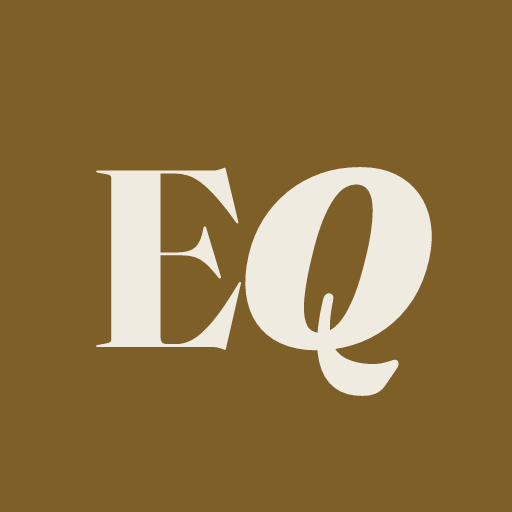
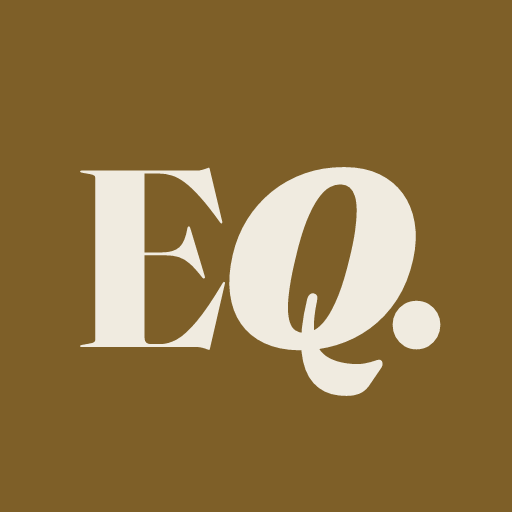
change photos

Changed region(s): [[0.2812, 0.3125, 0.875, 0.7812], [0.1562, 0.3125, 0.2188, 0.6875]]

diff --git a/scripts/gen-icon-palette.ts b/scripts/gen-icon-palette.ts
@@ -17,46 +17,46 @@ const root = path.join(__dirname, "..");
 const outDir = path.join(root, "public/icon-palette");
 fs.mkdirSync(outDir, { recursive: true });
 
-const frauncesData    = fs.readFileSync(path.join(root, "src/assets/fraunces-800.ttf"));
-const frauncesItalic  = fs.readFileSync(path.join(root, "src/assets/fraunces-800-italic.ttf"));
+const frauncesData = fs.readFileSync(path.join(root, "src/assets/fraunces-800.ttf"));
+const frauncesItalic = fs.readFileSync(path.join(root, "src/assets/fraunces-800-italic.ttf"));
 
 const fonts = [
-  { name: "Fraunces", data: frauncesData,   weight: 800 as const, style: "normal" as const },
+  { name: "Fraunces", data: frauncesData, weight: 800 as const, style: "normal" as const },
   { name: "Fraunces", data: frauncesItalic, weight: 800 as const, style: "italic" as const },
 ];
 
 const palettes: Array<{ name: string; bg: string; text: string }> = [
   // ── Standard palettes ──
-  { name: "amber-light",       bg: "#7E5F28", text: "#F0EBE0" },  // current favicon
-  { name: "amber-dark",        bg: "#0D0D0B", text: "#D4A574" },
-  { name: "forest-light",      bg: "#2D5A27", text: "#E8EDE6" },
-  { name: "forest-dark",       bg: "#0A110A", text: "#6AAE5A" },
-  { name: "ink-light",         bg: "#1B4080", text: "#E8EDF5" },
-  { name: "ink-dark",          bg: "#080E18", text: "#5B8DB5" },
-  { name: "clay-light",        bg: "#8B3A2A", text: "#F0E6E0" },
-  { name: "clay-dark",         bg: "#110806", text: "#C4664A" },
-  { name: "slate-light",       bg: "#4A5568", text: "#EEEEF2" },
-  { name: "slate-dark",        bg: "#0E0E12", text: "#8A9AB8" },
-  { name: "burgundy-light",    bg: "#7A1E30", text: "#F0E8EA" },
-  { name: "burgundy-dark",     bg: "#0E0608", text: "#C45A6E" },
+  { name: "amber-light", bg: "#7E5F28", text: "#F0EBE0" },  // current favicon
+  { name: "amber-dark", bg: "#0D0D0B", text: "#D4A574" },
+  { name: "forest-light", bg: "#2D5A27", text: "#E8EDE6" },
+  { name: "forest-dark", bg: "#0A110A", text: "#6AAE5A" },
+  { name: "ink-light", bg: "#1B4080", text: "#E8EDF5" },
+  { name: "ink-dark", bg: "#080E18", text: "#5B8DB5" },
+  { name: "clay-light", bg: "#8B3A2A", text: "#F0E6E0" },
+  { name: "clay-dark", bg: "#110806", text: "#C4664A" },
+  { name: "slate-light", bg: "#4A5568", text: "#EEEEF2" },
+  { name: "slate-dark", bg: "#0E0E12", text: "#8A9AB8" },
+  { name: "burgundy-light", bg: "#7A1E30", text: "#F0E8EA" },
+  { name: "burgundy-dark", bg: "#0E0608", text: "#C45A6E" },
 
   // ── Bold: color-as-background ──
-  { name: "bottle-dark",       bg: "#1C3A24", text: "#E4EDE6" },
-  { name: "bottle-light",      bg: "#ECFAEE", text: "#2D6B35" },
-  { name: "ultra-dark",        bg: "#0F1E6A", text: "#E8ECF8" },
-  { name: "ultra-light",       bg: "#EDF0FC", text: "#1E3FA8" },
-  { name: "teal-dark",         bg: "#082830", text: "#DCF0F4" },
-  { name: "teal-light",        bg: "#E6F8FB", text: "#0A5A6E" },
-  { name: "amber-wash-dark",   bg: "#5A3E14", text: "#F5EAD8" },
-  { name: "amber-wash-light",  bg: "#FBF4E8", text: "#8B5E20" },
-  { name: "terra-dark",        bg: "#5A1E10", text: "#F5E4DE" },
-  { name: "terra-light",       bg: "#FAF0EC", text: "#C4502A" },
-  { name: "olive-dark",        bg: "#2A3018", text: "#EAECD8" },
-  { name: "olive-light",       bg: "#F2F5E6", text: "#5A6A28" },
-  { name: "burg-wash-dark",    bg: "#3A0818", text: "#F5E0E4" },
-  { name: "burg-wash-light",   bg: "#F8EEF0", text: "#8B2A3A" },
-  { name: "cobalt-dark",       bg: "#001A80", text: "#E0E8FF" },
-  { name: "cobalt-light",      bg: "#EAF0FF", text: "#1E3FCC" },
+  { name: "bottle-dark", bg: "#1C3A24", text: "#E4EDE6" },
+  { name: "bottle-light", bg: "#ECFAEE", text: "#2D6B35" },
+  { name: "ultra-dark", bg: "#0F1E6A", text: "#E8ECF8" },
+  { name: "ultra-light", bg: "#EDF0FC", text: "#1E3FA8" },
+  { name: "teal-dark", bg: "#082830", text: "#DCF0F4" },
+  { name: "teal-light", bg: "#E6F8FB", text: "#0A5A6E" },
+  { name: "amber-wash-dark", bg: "#5A3E14", text: "#F5EAD8" },
+  { name: "amber-wash-light", bg: "#FBF4E8", text: "#8B5E20" },
+  { name: "terra-dark", bg: "#5A1E10", text: "#F5E4DE" },
+  { name: "terra-light", bg: "#FAF0EC", text: "#C4502A" },
+  { name: "olive-dark", bg: "#2A3018", text: "#EAECD8" },
+  { name: "olive-light", bg: "#F2F5E6", text: "#5A6A28" },
+  { name: "burg-wash-dark", bg: "#3A0818", text: "#F5E0E4" },
+  { name: "burg-wash-light", bg: "#F8EEF0", text: "#8B2A3A" },
+  { name: "cobalt-dark", bg: "#001A80", text: "#E0E8FF" },
+  { name: "cobalt-light", bg: "#EAF0FF", text: "#1E3FCC" },
 ];
 
 const SIZE = 512;
@@ -104,6 +104,22 @@ function makeTree(bg: string, text: string) {
               marginLeft: "-0.02em",
             },
             children: "Q",
+          },
+        },
+        {
+          type: "span",
+          props: {
+            style: {
+              fontFamily: "Fraunces",
+              fontWeight: 800,
+              fontStyle: "normal",
+              fontSize: `${FONT_SIZE}px`,
+              color: text,
+              lineHeight: 1,
+              letterSpacing: "-0.03em",
+              marginLeft: "-0.09em",
+            },
+            children: ".",
           },
         },
       ],

diff --git a/scripts/gen-icons.ts b/scripts/gen-icons.ts
@@ -69,6 +69,22 @@ const tree = {
           children: "Q",
         },
       },
+      {
+        type: "span",
+        props: {
+          style: {
+            fontFamily: "Fraunces",
+            fontWeight: 800,
+            fontStyle: "normal",
+            fontSize: `${FONT_SIZE}px`,
+            color: icon.text,
+            lineHeight: 1,
+            letterSpacing: "-0.03em",
+            marginLeft: "-0.09em",
+          },
+          children: ".",
+        },
+      },
     ],
   },
 };
